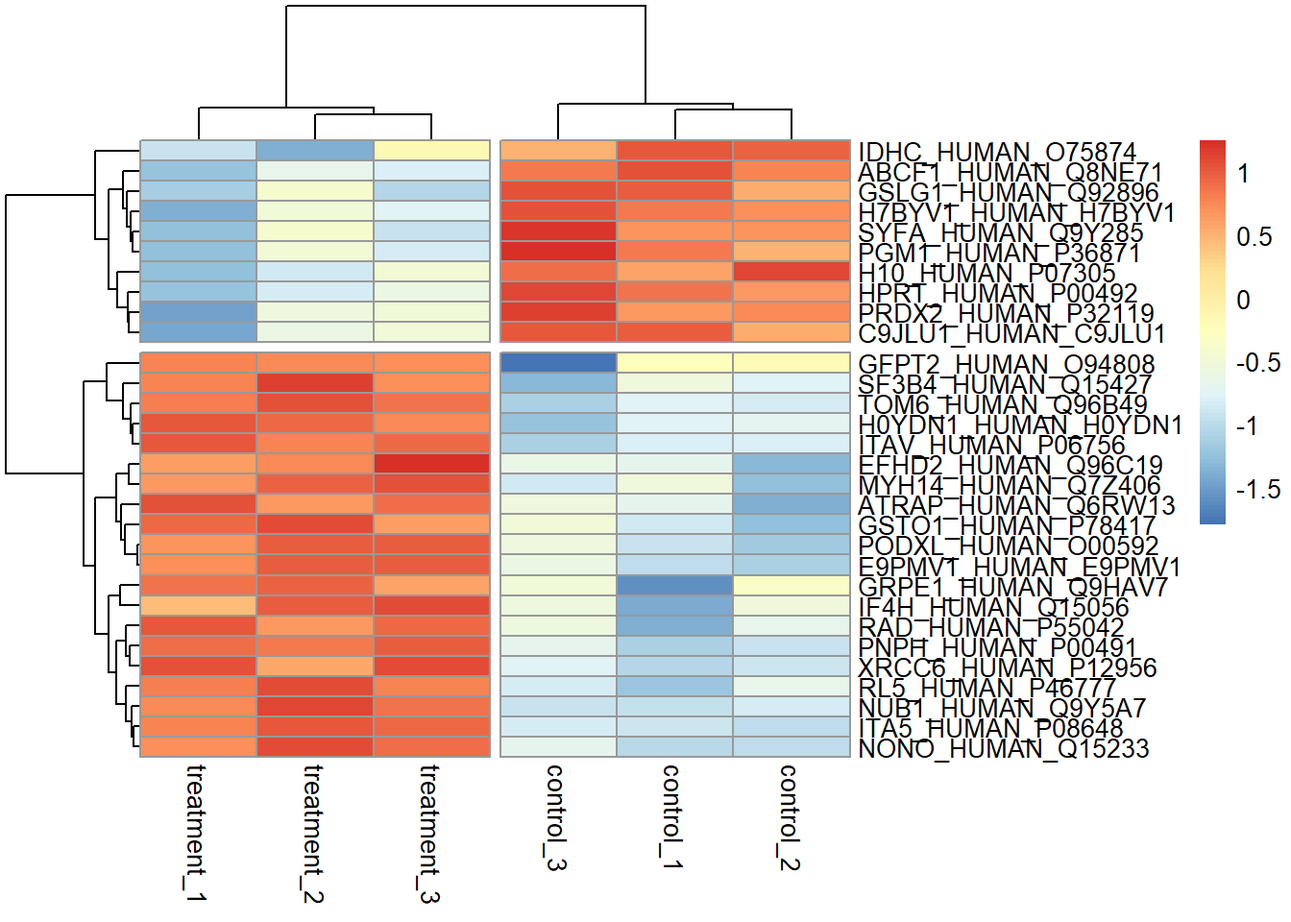
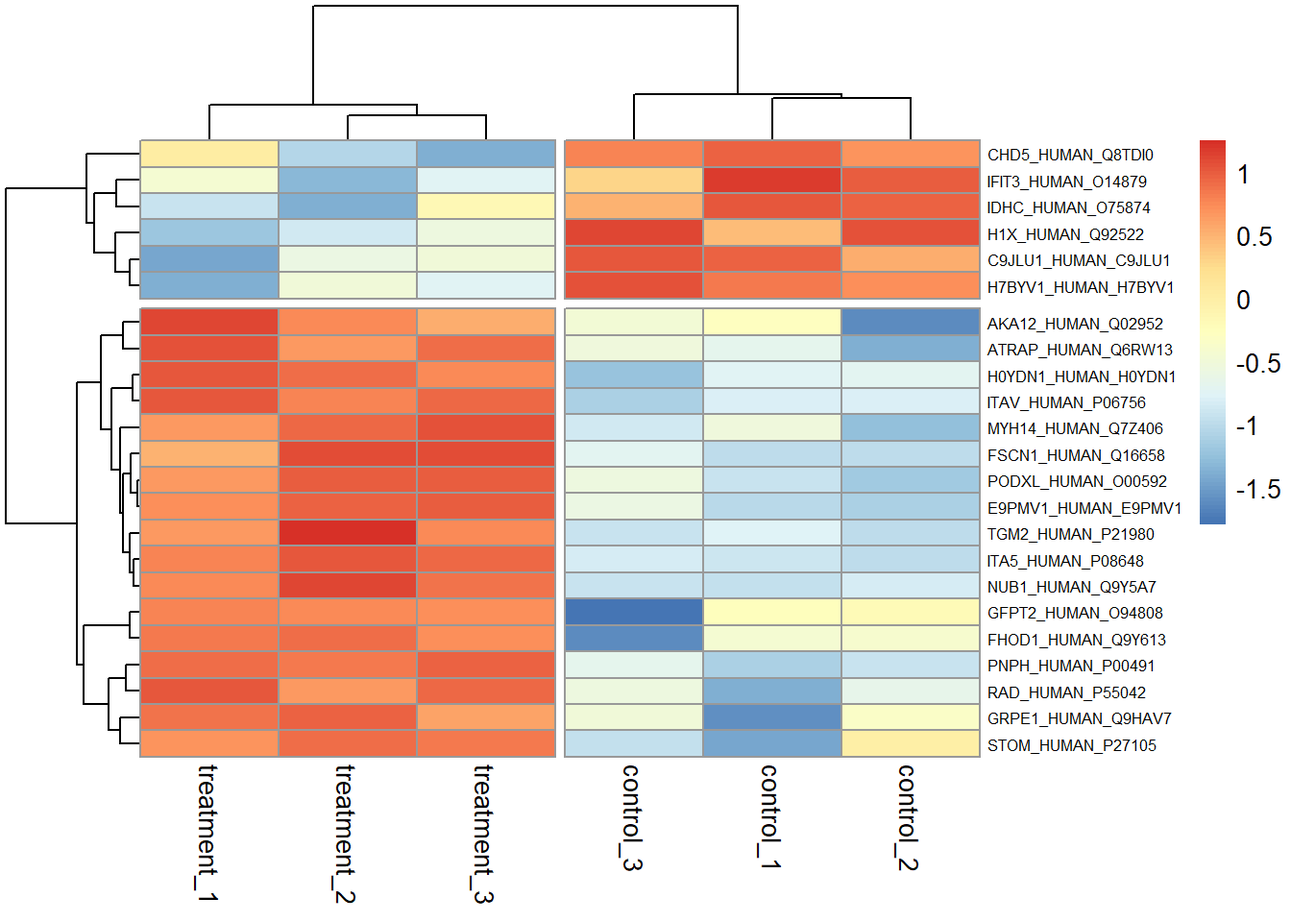
update book

diff --git a/_book/transform.html b/_book/transform.html
@@ -308,60 +308,51 @@ Figure 4.5: Comparison of the protein distributions before normalization (left) 
 <li><p>We don’t know whether the effect of the treatment is to increase or decrease the concentration of the protein, hence we will perform a two-sided t-test.</p></li>
 <li><p>The observations for the proteins are for proteins of the same type but from independent experiments, rather than observations of the same individuals before and after treatment. Hence we test the observations as unpaired samples.</p></li>
 </ol>
-<p>Use <code>t.test</code> to perform Welch Two Sample t-test on untransformed data. This outputs the p-values we need for each protein.</p>
+<p>Use <code>t.test</code> to perform Welch Two Sample t-test on untransformed data. This outputs the p-values we need for each protein. I couldn’t figure out a tidy way to do this, so I am using the base R apply function here.</p>
+<p>What’s going on in the code below is the following,</p>
 <div class="sourceCode"><pre class="sourceCode r"><code class="sourceCode r"><span class="co"># T-test function for multiple experiments</span>
 expriments_ttest &lt;-<span class="st"> </span><span class="cf">function</span>(dt,grp1,grp2){
   <span class="co"># Subset control group and convert to numeric</span>
   x &lt;-<span class="st"> </span>dt[grp1] <span class="op">%&gt;%</span><span class="st"> </span>unlist <span class="op">%&gt;%</span><span class="st"> </span><span class="kw">as.numeric</span>()
   <span class="co"># Subset treatment group and convert to numeric</span>
   y &lt;-<span class="st"> </span>dt[grp2] <span class="op">%&gt;%</span><span class="st"> </span>unlist <span class="op">%&gt;%</span><span class="st"> </span><span class="kw">as.numeric</span>()
-  <span class="co"># Perform t-test</span>
+  <span class="co"># Perform t-test using the mean of x and y</span>
   result &lt;-<span class="st"> </span><span class="kw">t.test</span>(x, y)
   <span class="co"># Return p-values</span>
   <span class="kw">return</span>(result<span class="op">$</span>p.value)
 } </code></pre></div>
 <div class="sourceCode"><pre class="sourceCode r"><code class="sourceCode r"><span class="co"># Apply t-test function to data</span>
 <span class="co"># array = dat, 1 = rows, FUN = expriments_ttest, and arguements</span>
-<span class="co"># For median normalised data</span>
 p_vals &lt;-<span class="st"> </span><span class="kw">apply</span>(dat_norm,<span class="dv">1</span>,expriments_ttest, <span class="dt">grp1 =</span> <span class="kw">c</span>(<span class="dv">3</span><span class="op">:</span><span class="dv">5</span>), <span class="dt">grp2 =</span> <span class="kw">c</span>(<span class="dv">6</span><span class="op">:</span><span class="dv">8</span>))
 
-p_vals_max &lt;-<span class="st"> </span><span class="kw">apply</span>(dat_norm_max,<span class="dv">1</span>,expriments_ttest, <span class="dt">grp1 =</span> <span class="kw">c</span>(<span class="dv">3</span><span class="op">:</span><span class="dv">5</span>), <span class="dt">grp2 =</span> <span class="kw">c</span>(<span class="dv">6</span><span class="op">:</span><span class="dv">8</span>))
-
-<span class="co"># Plot histograms</span>
+<span class="co"># Calculate the p-value for the first protein and compare with function</span>
+<span class="kw">paste0</span>(<span class="kw">round</span>(p_vals[<span class="dv">1</span>],<span class="dv">4</span>),<span class="st">&quot; &quot;</span>, 
+       <span class="kw">round</span>(<span class="kw">t.test</span>(<span class="kw">as.numeric</span>(dat_norm[<span class="dv">1</span>,<span class="dv">3</span><span class="op">:</span><span class="dv">5</span>]),
+                    <span class="kw">as.numeric</span>(dat_norm[<span class="dv">1</span>,<span class="dv">6</span><span class="op">:</span><span class="dv">8</span>]))<span class="op">$</span>p.value,<span class="dv">4</span>))</code></pre></div>
+<pre><code>## [1] &quot;0.0927 0.0927&quot;</code></pre>
+<div class="sourceCode"><pre class="sourceCode r"><code class="sourceCode r"><span class="co"># Plot histograms</span>
 <span class="kw">hist</span>(p_vals)</code></pre></div>
 <p><img src="bspr-workshop-2018_files/figure-html/t-tests-1.png" width="672" /></p>
-<div class="sourceCode"><pre class="sourceCode r"><code class="sourceCode r"><span class="kw">hist</span>(p_vals_max)</code></pre></div>
-<p><img src="bspr-workshop-2018_files/figure-html/t-tests-2.png" width="672" /></p>
 <ol start="4" style="list-style-type: decimal">
 <li>Perform log transformation of the observations for each protein.</li>
 </ol>
 <div class="sourceCode"><pre class="sourceCode r"><code class="sourceCode r"><span class="co"># Select columns and log data</span>
 dat_log &lt;-<span class="st"> </span>dat_norm <span class="op">%&gt;%</span><span class="st"> </span>
-<span class="st">  </span><span class="kw">select</span>(<span class="op">-</span><span class="kw">c</span>(protein_accession,protein_description)) <span class="op">%&gt;%</span><span class="st"> </span><span class="kw">log2</span>()
-dat_max_log &lt;-<span class="st"> </span>dat_norm_max <span class="op">%&gt;%</span>
 <span class="st">  </span><span class="kw">select</span>(<span class="op">-</span><span class="kw">c</span>(protein_accession,protein_description)) <span class="op">%&gt;%</span><span class="st"> </span><span class="kw">log2</span>()</code></pre></div>
 <ol start="5" style="list-style-type: decimal">
 <li>Calculate the mean observation for each protein under each condition.</li>
 </ol>
 <div class="sourceCode"><pre class="sourceCode r"><code class="sourceCode r">con &lt;-<span class="st"> </span><span class="kw">apply</span>(dat_log[,<span class="dv">1</span><span class="op">:</span><span class="dv">3</span>],<span class="dv">1</span>,mean)
-trt &lt;-<span class="st"> </span><span class="kw">apply</span>(dat_log[,<span class="dv">4</span><span class="op">:</span><span class="dv">6</span>],<span class="dv">1</span>,mean)
-
-con_max &lt;-<span class="st"> </span><span class="kw">apply</span>(dat_max_log[,<span class="dv">1</span><span class="op">:</span><span class="dv">3</span>],<span class="dv">1</span>,mean)
-trt_max &lt;-<span class="st"> </span><span class="kw">apply</span>(dat_max_log[,<span class="dv">4</span><span class="op">:</span><span class="dv">6</span>],<span class="dv">1</span>,mean)</code></pre></div>
+trt &lt;-<span class="st"> </span><span class="kw">apply</span>(dat_log[,<span class="dv">4</span><span class="op">:</span><span class="dv">6</span>],<span class="dv">1</span>,mean)</code></pre></div>
 <ol start="6" style="list-style-type: decimal">
 <li>The log fold change is then the difference between condition 1 and condition 2.</li>
 </ol>
 <div class="sourceCode"><pre class="sourceCode r"><code class="sourceCode r"><span class="co"># Plot a histogram to look at the distribution.</span>
-
 <span class="co"># Calculate fold change</span>
 dat_fc &lt;-<span class="st"> </span>con <span class="op">-</span><span class="st"> </span>trt
-dat_max_fc &lt;-<span class="st"> </span>con_max <span class="op">-</span><span class="st"> </span>trt_max
-
 <span class="co"># Plot histograms</span>
 <span class="kw">hist</span>(dat_fc)</code></pre></div>
 <p><img src="bspr-workshop-2018_files/figure-html/log-fc-1.png" width="672" /></p>
-<div class="sourceCode"><pre class="sourceCode r"><code class="sourceCode r"><span class="kw">hist</span>(dat_max_fc)</code></pre></div>
-<p><img src="bspr-workshop-2018_files/figure-html/log-fc-2.png" width="672" /></p>
 </div>
 </div>
 <div id="visualising-data" class="section level2">
@@ -378,27 +369,20 @@ for plotting a volcano plot. --->
 <p>A volcano plot is a plot of the log fold change in the observation between two conditions on the x-axis, for example the protein expression between treatment and control conditions. On the y-axis is the corresponding p-value for each observation, representing the likelihood that an observed change is due to the different conditions rather than arising from a natural variation in the fold change that might be observed if we performed many replications of the experiment.</p>
 <p>The aim of a volcano plot is to enable the viewer to quickly see the effect (if any) of an experiment with two conditions on many species (i.e. proteins) in terms of both an increase and decrease of the observed value.</p>
 <p>Like all plots it has it’s good and bad points, namely it’s good that we can visualise a lot of complex information in one plot. However this is also it’s main weakness, it’s rather complicated to understand in one glance.</p>
-<p>However, volcano plots are widely used in the literature, so there may be an amount of <a href="https://en.wikipedia.org/wiki/Social_proof">social proof</a> giving rise to their popularity as opposed to their utility.</p>
+<p>However, volcano plots are widely used in the literature, so there may be an amount of <a href="https://en.wikipedia.org/wiki/Social_proof">social proof</a> giving rise to their popularity as much as their utility.</p>
 <div class="sourceCode"><pre class="sourceCode r"><code class="sourceCode r">dat_vplot &lt;-<span class="st"> </span><span class="kw">tibble</span>(<span class="dt">prots=</span> dat_norm<span class="op">$</span>protein_accession,
                    <span class="dt">logfc =</span> dat_fc,
-                   <span class="dt">pval =</span> <span class="op">-</span><span class="dv">1</span><span class="op">*</span><span class="kw">log10</span>(p_vals))
+                   <span class="dt">logpval =</span> <span class="op">-</span><span class="dv">1</span><span class="op">*</span><span class="kw">log10</span>(p_vals))
 
-dat_max &lt;-<span class="st"> </span><span class="kw">tibble</span>(<span class="dt">prots=</span> dat_norm_max<span class="op">$</span>protein_accession,
-                      <span class="dt">logfc =</span> dat_max_fc,
-                      <span class="dt">pval =</span> <span class="op">-</span><span class="dv">1</span><span class="op">*</span><span class="kw">log10</span>(p_vals_max))
-
-dat_max <span class="op">%&gt;%</span><span class="st"> </span><span class="kw">ggplot</span>(<span class="kw">aes</span>(logfc,pval)) <span class="op">+</span><span class="st"> </span>
-<span class="st">  </span><span class="kw">geom_point</span>() <span class="op">+</span><span class="st"> </span><span class="co"># Add dotted lines to indicate the threshold, semi-transparent</span>
-<span class="st">  </span><span class="kw">geom_hline</span>(<span class="dt">yintercept =</span> <span class="fl">1.5</span>, <span class="dt">linetype =</span> <span class="dv">2</span>, <span class="dt">alpha =</span> <span class="fl">0.5</span>) <span class="op">+</span><span class="st"> </span>
-<span class="st">  </span><span class="kw">geom_vline</span>(<span class="dt">xintercept =</span> <span class="dv">2</span>, <span class="dt">linetype =</span> <span class="dv">2</span>, <span class="dt">alpha =</span> <span class="fl">0.5</span>) <span class="op">+</span>
-<span class="st">  </span><span class="kw">geom_vline</span>(<span class="dt">xintercept =</span> <span class="op">-</span><span class="dv">2</span>, <span class="dt">linetype =</span> <span class="dv">2</span>, <span class="dt">alpha =</span> <span class="fl">0.5</span>) </code></pre></div>
+dat_vplot <span class="op">%&gt;%</span><span class="st"> </span><span class="kw">ggplot</span>(<span class="kw">aes</span>(logfc,logpval)) <span class="op">+</span><span class="st"> </span><span class="kw">geom_point</span>()</code></pre></div>
 <p><img src="bspr-workshop-2018_files/figure-html/volcano-plot-1.png" width="672" /></p>
+<p>However it would be much more useful with some extra formatting…</p>
 <div class="sourceCode"><pre class="sourceCode r"><code class="sourceCode r">dat_vplot <span class="op">%&gt;%</span>
 <span class="st">  </span><span class="co"># Add a threhold for significant observations</span>
-<span class="st">  </span><span class="kw">mutate</span>(<span class="dt">threshold =</span> <span class="kw">if_else</span>(logfc <span class="op">&gt;=</span><span class="st"> </span><span class="dv">2</span> <span class="op">&amp;</span><span class="st"> </span>pval <span class="op">&gt;=</span><span class="st"> </span><span class="fl">1.5</span> <span class="op">|</span>
-<span class="st">                               </span>logfc <span class="op">&lt;=</span><span class="st"> </span><span class="op">-</span><span class="dv">2</span> <span class="op">&amp;</span><span class="st"> </span>pval <span class="op">&gt;=</span><span class="st"> </span><span class="fl">1.5</span>,<span class="st">&quot;A&quot;</span>, <span class="st">&quot;B&quot;</span>)) <span class="op">%&gt;%</span>
+<span class="st">  </span><span class="kw">mutate</span>(<span class="dt">threshold =</span> <span class="kw">if_else</span>(logfc <span class="op">&gt;=</span><span class="st"> </span><span class="dv">2</span> <span class="op">&amp;</span><span class="st"> </span>logpval <span class="op">&gt;=</span><span class="st"> </span><span class="fl">1.5</span> <span class="op">|</span>
+<span class="st">                               </span>logfc <span class="op">&lt;=</span><span class="st"> </span><span class="op">-</span><span class="dv">2</span> <span class="op">&amp;</span><span class="st"> </span>logpval <span class="op">&gt;=</span><span class="st"> </span><span class="fl">1.5</span>,<span class="st">&quot;A&quot;</span>, <span class="st">&quot;B&quot;</span>)) <span class="op">%&gt;%</span>
 <span class="st">  </span><span class="co"># Plot with points coloured according to the threshold</span>
-<span class="st">  </span><span class="kw">ggplot</span>(<span class="kw">aes</span>(logfc,pval, <span class="dt">colour =</span> threshold)) <span class="op">+</span>
+<span class="st">  </span><span class="kw">ggplot</span>(<span class="kw">aes</span>(logfc,logpval, <span class="dt">colour =</span> threshold)) <span class="op">+</span>
 <span class="st">  </span><span class="kw">geom_point</span>(<span class="dt">alpha =</span> <span class="fl">0.5</span>) <span class="op">+</span><span class="st"> </span><span class="co"># Alpha sets the transparency of the points</span>
 <span class="st">  </span><span class="co"># Add dotted lines to indicate the threshold, semi-transparent</span>
 <span class="st">  </span><span class="kw">geom_hline</span>(<span class="dt">yintercept =</span> <span class="fl">1.5</span>, <span class="dt">linetype =</span> <span class="dv">2</span>, <span class="dt">alpha =</span> <span class="fl">0.5</span>) <span class="op">+</span><span class="st"> </span>
@@ -409,30 +393,32 @@ dat_max <span class="op">%&gt;%</span><span class="st"> </span><span class="kw">
 <span class="st">  </span><span class="kw">xlab</span>(<span class="st">&quot;log2 fold change&quot;</span>) <span class="op">+</span><span class="st"> </span><span class="kw">ylab</span>(<span class="st">&quot;-log10 p-value&quot;</span>) <span class="op">+</span><span class="st"> </span><span class="co"># Relabel the axes</span>
 <span class="st">  </span><span class="kw">theme_minimal</span>() <span class="op">+</span><span class="st"> </span><span class="co"># Set the theme</span>
 <span class="st">  </span><span class="kw">theme</span>(<span class="dt">legend.position=</span><span class="st">&quot;none&quot;</span>) <span class="co"># Hide the legend</span></code></pre></div>
-<p><img src="bspr-workshop-2018_files/figure-html/volcano-plot-2.png" width="672" /></p>
+<p><img src="bspr-workshop-2018_files/figure-html/nice-vplot-1.png" width="672" /></p>
 <p>But which proteins are the significant observations?</p>
 <div class="sourceCode"><pre class="sourceCode r"><code class="sourceCode r">dat_vplot <span class="op">%&gt;%</span>
 <span class="st">  </span><span class="co"># Add a threhold for significant observations</span>
-<span class="st">  </span><span class="kw">mutate</span>(<span class="dt">threshold =</span> <span class="kw">if_else</span>(logfc <span class="op">&gt;=</span><span class="st"> </span><span class="dv">2</span> <span class="op">&amp;</span><span class="st"> </span>pval <span class="op">&gt;=</span><span class="st"> </span><span class="fl">1.5</span> <span class="op">|</span>
-<span class="st">                               </span>logfc <span class="op">&lt;=</span><span class="st"> </span><span class="op">-</span><span class="dv">2</span> <span class="op">&amp;</span><span class="st"> </span>pval <span class="op">&gt;=</span><span class="st"> </span><span class="fl">1.5</span>,<span class="st">&quot;A&quot;</span>, <span class="st">&quot;B&quot;</span>),
+<span class="st">  </span><span class="kw">mutate</span>(<span class="dt">threshold =</span> <span class="kw">if_else</span>(logfc <span class="op">&gt;=</span><span class="st"> </span><span class="dv">2</span> <span class="op">&amp;</span><span class="st"> </span>logpval <span class="op">&gt;=</span><span class="st"> </span><span class="fl">1.5</span> <span class="op">|</span>
+<span class="st">                               </span>logfc <span class="op">&lt;=</span><span class="st"> </span><span class="op">-</span><span class="dv">2</span> <span class="op">&amp;</span><span class="st"> </span>logpval <span class="op">&gt;=</span><span class="st"> </span><span class="fl">1.5</span>,<span class="st">&quot;A&quot;</span>, <span class="st">&quot;B&quot;</span>),
          <span class="dt">prot_id =</span> <span class="kw">str_extract</span>(prots,<span class="st">&quot;.{6}$&quot;</span>)) <span class="op">%&gt;%</span><span class="st">  </span><span class="co"># Get last six characters</span>
 <span class="st">  </span><span class="co"># Filter observations above the threshold</span>
 <span class="st">  </span><span class="kw">filter</span>(threshold <span class="op">==</span><span class="st"> &quot;A&quot;</span>)</code></pre></div>
 <pre><code>## # A tibble: 5 x 5
-##   prots               logfc  pval threshold prot_id
-##   &lt;chr&gt;               &lt;dbl&gt; &lt;dbl&gt; &lt;chr&gt;     &lt;chr&gt;  
-## 1 AKA12_HUMAN_Q02952  -2.29  1.52 A         Q02952 
-## 2 GFPT2_HUMAN_O94808  -3.09  2.45 A         O94808 
-## 3 H7BYV1_HUMAN_H7BYV1  2.05  2.46 A         H7BYV1 
-## 4 ITAV_HUMAN_P06756   -2.22  2.62 A         P06756 
-## 5 CHD5_HUMAN_Q8TDI0    5.04  1.60 A         Q8TDI0</code></pre>
+##   prots               logfc logpval threshold prot_id
+##   &lt;chr&gt;               &lt;dbl&gt;   &lt;dbl&gt; &lt;chr&gt;     &lt;chr&gt;  
+## 1 AKA12_HUMAN_Q02952  -2.29    1.52 A         Q02952 
+## 2 GFPT2_HUMAN_O94808  -3.09    2.45 A         O94808 
+## 3 H7BYV1_HUMAN_H7BYV1  2.05    2.46 A         H7BYV1 
+## 4 ITAV_HUMAN_P06756   -2.22    2.62 A         P06756 
+## 5 CHD5_HUMAN_Q8TDI0    5.04    1.60 A         Q8TDI0</code></pre>
 </div>
 <div id="creating-a-heatmap-plot" class="section level2">
 <h2><span class="header-section-number">4.6</span> Creating a heatmap plot</h2>
 <!-- 1. Clustering the data -->
-<div class="sourceCode"><pre class="sourceCode r"><code class="sourceCode r">dat_mut &lt;-<span class="st"> </span>dat_norm <span class="op">%&gt;%</span>
-<span class="st">  </span><span class="kw">mutate</span>(<span class="dt">pval =</span> dat_vplot<span class="op">$</span>pval, <span class="dt">logfc =</span> dat_vplot<span class="op">$</span>logfc) <span class="op">%&gt;%</span>
-<span class="st">  </span><span class="kw">filter</span>(pval <span class="op">&gt;=</span><span class="st"> </span><span class="dv">2</span> <span class="op">&amp;</span><span class="st"> </span>(logfc <span class="op">&gt;=</span><span class="dv">2</span> <span class="op">|</span><span class="st"> </span>logfc <span class="op">&lt;=</span><span class="st"> </span><span class="dv">2</span>)) <span class="op">%&gt;%</span>
+<div class="sourceCode"><pre class="sourceCode r"><code class="sourceCode r"><span class="co"># Keep the same p-val cut-off, but relax the logfc to 1 which represents a </span>
+<span class="co"># doubling</span>
+dat_mut &lt;-<span class="st"> </span>dat_norm <span class="op">%&gt;%</span>
+<span class="st">  </span><span class="kw">mutate</span>(<span class="dt">logpval =</span> dat_vplot<span class="op">$</span>logpval, <span class="dt">logfc =</span> dat_vplot<span class="op">$</span>logfc) <span class="op">%&gt;%</span>
+<span class="st">  </span><span class="kw">filter</span>(logpval <span class="op">&gt;=</span><span class="st"> </span><span class="fl">1.5</span> <span class="op">&amp;</span><span class="st"> </span>(logfc <span class="op">&gt;=</span><span class="st"> </span><span class="dv">1</span> <span class="op">|</span><span class="st"> </span>logfc <span class="op">&lt;=</span><span class="st"> </span><span class="op">-</span><span class="dv">1</span>)) <span class="op">%&gt;%</span>
 <span class="st">  </span><span class="kw">select</span>(<span class="op">-</span><span class="kw">c</span>(<span class="dv">2</span>,<span class="dv">9</span><span class="op">:</span><span class="dv">10</span>))
 
 dat_sel &lt;-<span class="st"> </span><span class="kw">as.matrix.data.frame</span>(dat_mut[,<span class="dv">2</span><span class="op">:</span><span class="dv">7</span>]) <span class="op">%&gt;%</span><span class="st"> </span><span class="kw">log2</span>()
@@ -443,17 +429,25 @@ dat.tn &lt;-<span class="st"> </span><span class="kw">scale</span>(<span class="
 <span class="co">#dat.tn &lt;- dat_sel</span>
 
 <span class="co">#gplots::heatmap.2(dat.tn, scale = &#39;row&#39;,trace=&quot;none&quot;)</span>
-<span class="kw">library</span>(pheatmap)
+
 <span class="kw">pheatmap</span>(dat.tn,<span class="dt">cutree_rows =</span> <span class="dv">2</span>,
-         <span class="dt">cutree_cols =</span> <span class="dv">2</span>)</code></pre></div>
+         <span class="dt">cutree_cols =</span> <span class="dv">2</span>,
+         <span class="dt">fontsize_row =</span> <span class="dv">6</span>)</code></pre></div>
 <p><img src="bspr-workshop-2018_files/figure-html/heatmap-2-1.png" width="672" /></p>
 <div class="sourceCode"><pre class="sourceCode r"><code class="sourceCode r">cal_z_score &lt;-<span class="st"> </span><span class="cf">function</span>(x){
   (x <span class="op">-</span><span class="st"> </span><span class="kw">mean</span>(x)) <span class="op">/</span><span class="st"> </span><span class="kw">sd</span>(x)
 }
 
 data_subset_norm &lt;-<span class="st"> </span><span class="kw">t</span>(<span class="kw">apply</span>(dat_mut[,<span class="dv">2</span><span class="op">:</span><span class="dv">7</span>], <span class="dv">1</span>, cal_z_score))
-<span class="kw">row.names</span>(data_subset_norm) &lt;-<span class="st"> </span>dat_mut<span class="op">$</span>protein_accession
-<span class="kw">pheatmap</span>(data_subset_norm)</code></pre></div>
+
+data_subset_norm <span class="op">%&gt;%</span><span class="st"> </span>
+<span class="st">  </span>magrittr<span class="op">::</span><span class="kw">set_colnames</span>(<span class="kw">c</span>(<span class="st">&quot;Ctl 1&quot;</span>, <span class="st">&quot;Ctl 2&quot;</span>, <span class="st">&quot;Ctl 3&quot;</span>,
+                                    <span class="st">&quot;Trt 1&quot;</span>, <span class="st">&quot;Trt 2&quot;</span>, <span class="st">&quot;Trt 3&quot;</span>)) <span class="op">%&gt;%</span><span class="st"> </span>
+<span class="st">  </span>magrittr<span class="op">::</span><span class="kw">set_rownames</span>(dat_mut<span class="op">$</span>protein_accession) <span class="op">%&gt;%</span><span class="st"> </span>
+<span class="st">  </span><span class="kw">pheatmap</span>(.,
+           <span class="dt">fontsize =</span> <span class="dv">6</span>,
+           <span class="dt">cutree_rows =</span> <span class="dv">2</span>,
+           <span class="dt">cutree_cols =</span> <span class="dv">2</span>)</code></pre></div>
 <p><img src="bspr-workshop-2018_files/figure-html/heatmap-2-2.png" width="672" /></p>
 <div class="sourceCode"><pre class="sourceCode r"><code class="sourceCode r">d1 &lt;-<span class="st"> </span>dat.tn <span class="op">%&gt;%</span><span class="st"> </span><span class="kw">t</span>() <span class="op">%&gt;%</span>
 <span class="st">  </span><span class="kw">dist</span>(.,<span class="dt">method =</span> <span class="st">&quot;euclidean&quot;</span>, <span class="dt">diag =</span> <span class="ot">FALSE</span>, <span class="dt">upper =</span> <span class="ot">FALSE</span>)
@@ -476,13 +470,17 @@ my_palette &lt;-<span class="st"> </span><span class="kw">colorRampPalette</span
 
 <span class="co"># Plot heatmap with heatmap.2</span>
 <span class="kw">par</span>(<span class="dt">cex.main=</span><span class="fl">0.75</span>) <span class="co"># Shrink title fonts on plot</span>
-gplots<span class="op">::</span><span class="kw">heatmap.2</span>(dat.tn,                     <span class="co"># Tidy, normalised data</span>
+dat.tn <span class="op">%&gt;%</span><span class="st"> </span>
+<span class="st">  </span>magrittr<span class="op">::</span><span class="kw">set_colnames</span>(<span class="kw">c</span>(<span class="st">&quot;Ctl 1&quot;</span>, <span class="st">&quot;Ctl 2&quot;</span>, <span class="st">&quot;Ctl 3&quot;</span>,
+                                    <span class="st">&quot;Trt 1&quot;</span>, <span class="st">&quot;Trt 2&quot;</span>, <span class="st">&quot;Trt 3&quot;</span>)) <span class="op">%&gt;%</span><span class="st"> </span>
+<span class="st">  </span>magrittr<span class="op">::</span><span class="kw">set_rownames</span>(dat_mut<span class="op">$</span>protein_accession) <span class="op">%&gt;%</span><span class="st"> </span>
+<span class="st">  </span>gplots<span class="op">::</span><span class="kw">heatmap.2</span>(.,                     <span class="co"># Tidy, normalised data</span>
           <span class="dt">Colv=</span><span class="kw">as.dendrogram</span>(c1),     <span class="co"># Experiments clusters in cols</span>
           <span class="dt">Rowv=</span><span class="kw">as.dendrogram</span>(c2),     <span class="co"># Protein clusters in rows</span>
           <span class="dt">density.info=</span><span class="st">&quot;histogram&quot;</span>,   <span class="co"># Plot histogram of data and colour key</span>
           <span class="dt">trace=</span><span class="st">&quot;none&quot;</span>,               <span class="co"># Turn of trace lines from heat map</span>
           <span class="dt">col =</span> my_palette,           <span class="co"># Use my colour scheme</span>
-          <span class="dt">cexRow=</span><span class="fl">0.5</span>,<span class="dt">cexCol=</span><span class="fl">0.75</span>)     <span class="co"># Amend row and column label fonts</span></code></pre></div>
+          <span class="dt">cexRow=</span><span class="fl">0.3</span>,<span class="dt">cexCol=</span><span class="fl">0.75</span>)     <span class="co"># Amend row and column label fonts</span></code></pre></div>
 <p><img src="bspr-workshop-2018_files/figure-html/heatmap-1-1.png" width="672" /></p>
 
 </div>

diff --git a/_book/index.html b/_book/index.html
@@ -179,7 +179,7 @@ code > span.in { color: #60a0b0; font-weight: bold; font-style: italic; } /* Inf
 <h1 class="title">Data Science Workshop</h1>
 <h3 class="subtitle"><em>British Society for Proteomic Research Meeting 2018</em></h3>
 <h4 class="author"><em>Alistair Bailey</em></h4>
-<h4 class="date"><em>June 22 2018</em></h4>
+<h4 class="date"><em>June 25 2018</em></h4>
 </div>
 <div id="overview" class="section level1 unnumbered">
 <h1>Overview</h1>
